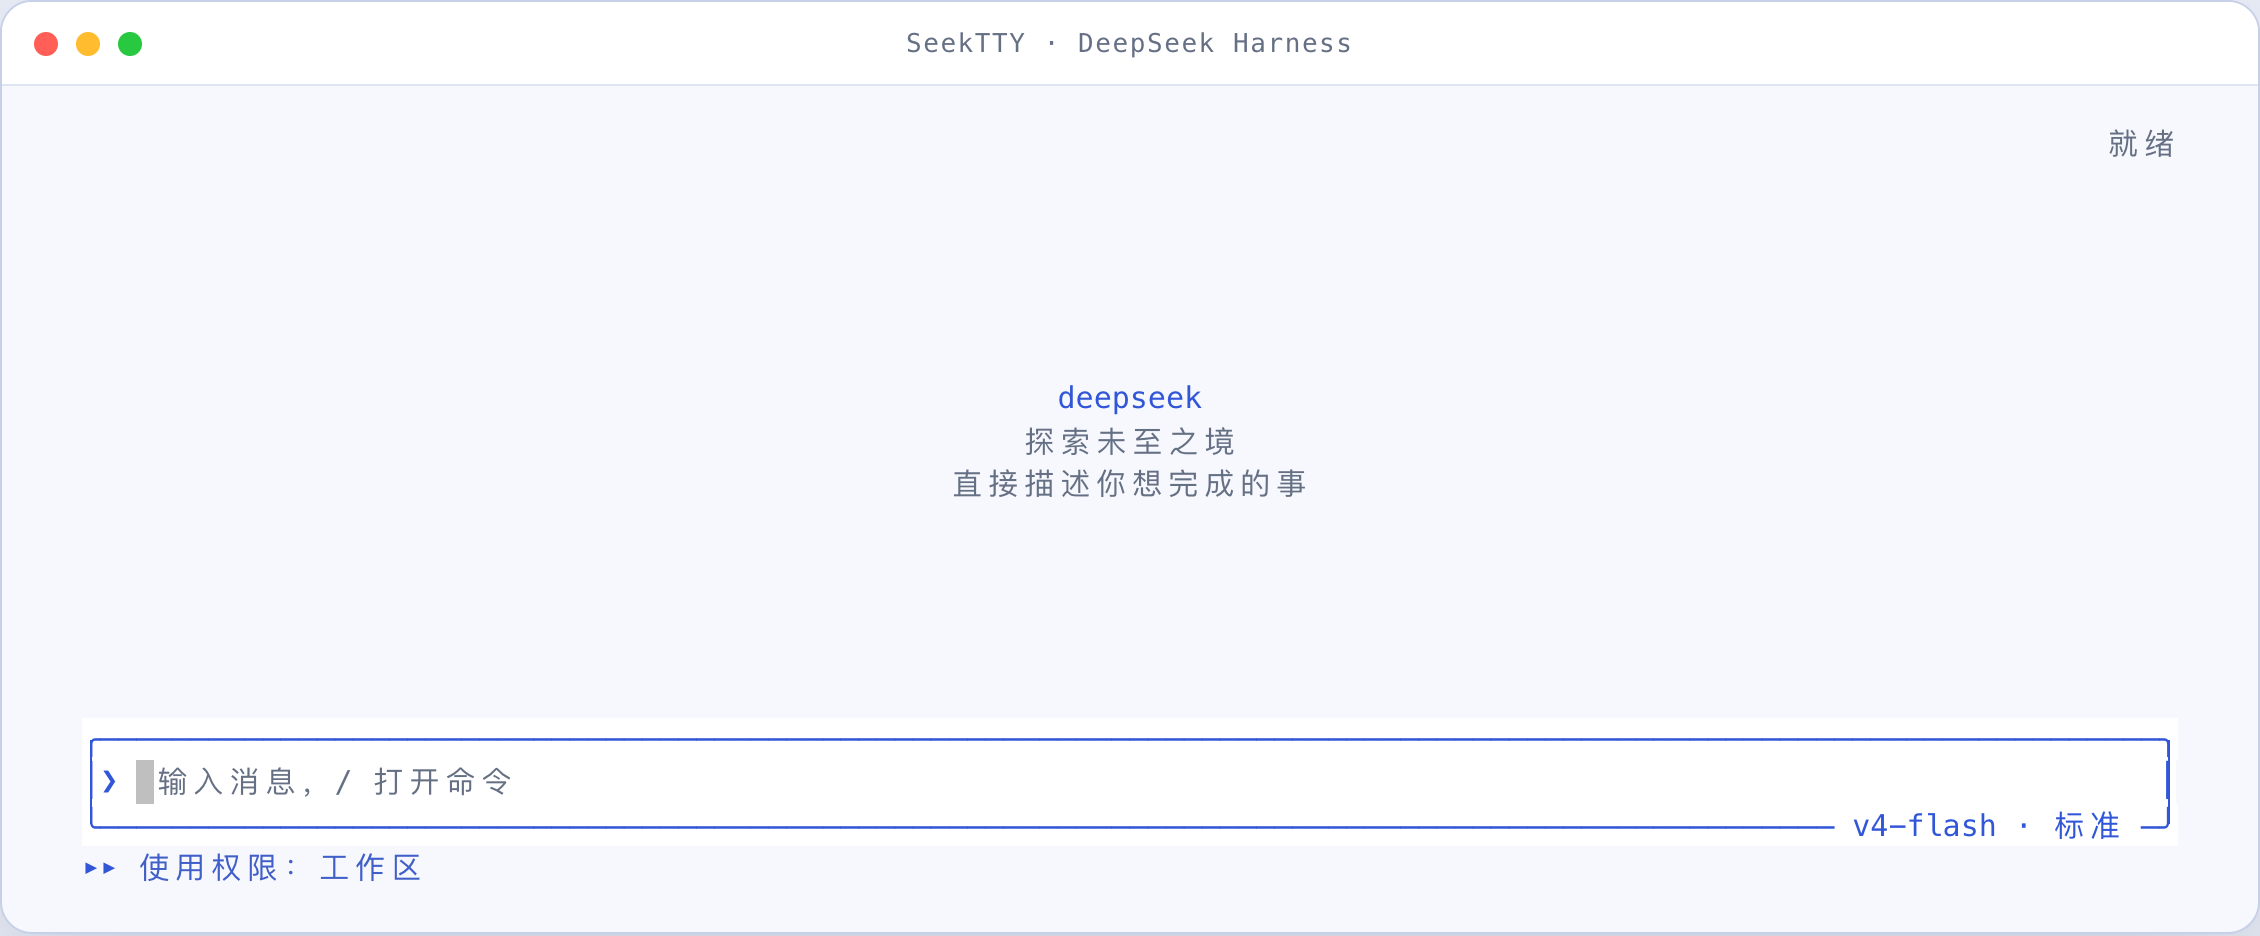
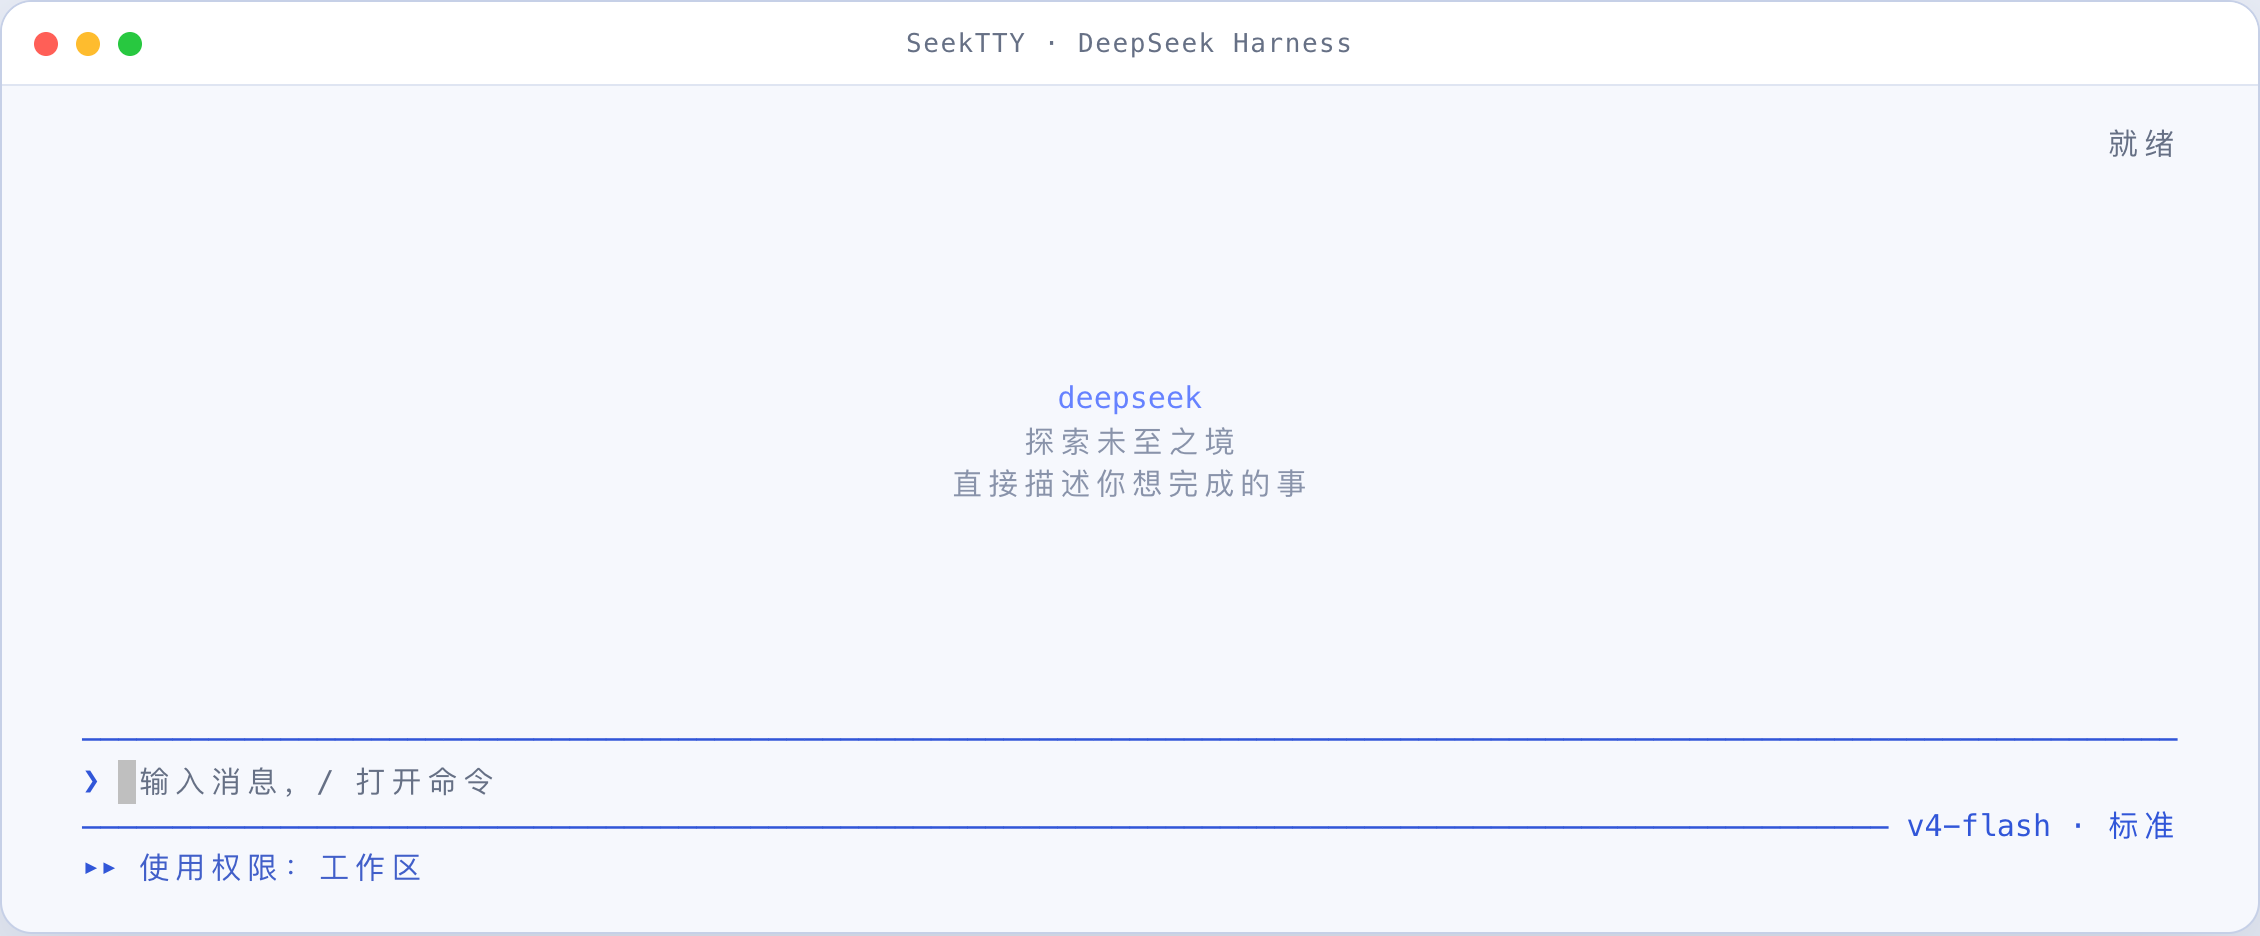
fix(tui): use open composer rules

diff --git a/src/client/chrome.ts b/src/client/chrome.ts
@@ -9,7 +9,7 @@ import {
   type TUI,
 } from '@mariozechner/pi-tui'
 import type { TuiHeaderFacts } from './capabilities.ts'
-import { color, editorTheme, surfaceRow } from './theme.ts'
+import { color, editorTheme } from './theme.ts'
 
 function fit(text: string, width: number): string {
   return truncateToWidth(text, Math.max(1, width), '…')
@@ -66,26 +66,16 @@ function permissionLabel(value: string): string {
   }
 }
 
-function framedRule(
-  start: '╭' | '╰',
-  end: '╮' | '╯',
+function horizontalRule(
   label: string,
   width: number,
   paint: (text: string) => string,
-  align: 'left' | 'right' = 'left',
 ): string {
-  if (width <= 2) return paint('─'.repeat(Math.max(1, width)))
-  const labelWidth = Math.max(0, width - 7)
+  if (width <= 1) return paint('─'.repeat(Math.max(1, width)))
+  const labelWidth = Math.max(0, width - 2)
   const safeLabel = labelWidth === 0 ? '' : truncateToWidth(label, labelWidth, '…')
-  const interiorWidth = width - 2
-  let interior: string
-  if (align === 'right' && safeLabel !== '') {
-    interior = `${'─'.repeat(Math.max(0, interiorWidth - visibleWidth(safeLabel) - 3))} ${safeLabel} ─`
-  } else {
-    const lead = safeLabel === '' ? '─' : `─ ${safeLabel} `
-    interior = `${lead}${'─'.repeat(Math.max(0, interiorWidth - visibleWidth(lead)))}`
-  }
-  return paint(`${start}${truncateToWidth(interior, width - 2)}${end}`)
+  const suffix = safeLabel === '' ? '' : ` ${safeLabel}`
+  return paint(`${'─'.repeat(Math.max(1, width - visibleWidth(suffix)))}${suffix}`)
 }
 
 function compactFacts(label: string, width: number): string {
@@ -204,7 +194,7 @@ export class StatusBar implements Component {
   }
 }
 
-/** Framed Grok-style composer with only live model facts in its lower border. */
+/** Open Grok-style composer with live model facts aligned to its lower rule. */
 export class PromptEditor extends Editor {
   private facts = 'deepseek · 标准'
 
@@ -213,7 +203,7 @@ export class PromptEditor extends Editor {
   }
 
   /**
-   * Embed current Harness Session facts in the composer border.
+   * Embed current Harness Session facts in the composer's lower rule.
    * @param facts - Current authoritative Session facts.
    */
   setFacts(facts: TuiHeaderFacts): void {
@@ -232,8 +222,7 @@ export class PromptEditor extends Editor {
     this.borderColor = this.focused ? color.brand : color.border
     if (width < 8) return super.render(width)
     const { prefix, innerWidth: frameWidth } = gutter(width)
-    const innerWidth = frameWidth - 2
-    const lines = super.render(innerWidth)
+    const lines = super.render(frameWidth)
     const lowerRule = lines.findIndex((line, index) => index > 0 && isHorizontalRule(line))
     const split = lowerRule < 0 ? lines.length - 1 : lowerRule
     const editorRows = lines.slice(1, split)
@@ -243,19 +232,18 @@ export class PromptEditor extends Editor {
       const cursor = this.focused ? `${CURSOR_MARKER}\u001B[7m \u001B[0m` : ''
       editorRows[0] = padded(
         `${color.brand('❯')} ${cursor}${color.muted('输入消息，/ 打开命令')}`,
-        innerWidth,
+        frameWidth,
       )
     } else if (editorRows.length > 0) {
       editorRows[0] = `${color.brand('❯')} ${editorRows[0]?.slice(2) ?? ''}`
     }
 
-    const vertical = this.borderColor('│')
-    const body = [...editorRows, ...autocompleteRows].map(row => `${vertical}${padded(row, innerWidth)}${vertical}`)
-    const compactedFacts = compactFacts(this.facts, Math.max(0, frameWidth - 7))
+    const body = [...editorRows, ...autocompleteRows].map(row => padded(row, frameWidth))
+    const compactedFacts = compactFacts(this.facts, Math.max(0, frameWidth - 2))
     return [
-      framedRule('╭', '╮', '', frameWidth, this.borderColor),
+      horizontalRule('', frameWidth, this.borderColor),
       ...body,
-      framedRule('╰', '╯', compactedFacts, frameWidth, this.borderColor, 'right'),
-    ].map(line => `${prefix}${surfaceRow(line, frameWidth)}`)
+      horizontalRule(compactedFacts, frameWidth, this.borderColor),
+    ].map(line => `${prefix}${line}`)
   }
 }

diff --git a/lib/index.js b/lib/index.js
@@ -24249,18 +24249,12 @@ function permissionLabel(value) {
 		default: return value;
 	}
 }
-function framedRule(start, end, label, width, paint$1, align = "left") {
-	if (width <= 2) return paint$1("─".repeat(Math.max(1, width)));
-	const labelWidth = Math.max(0, width - 7);
+function horizontalRule(label, width, paint$1) {
+	if (width <= 1) return paint$1("─".repeat(Math.max(1, width)));
+	const labelWidth = Math.max(0, width - 2);
 	const safeLabel = labelWidth === 0 ? "" : truncateToWidth(label, labelWidth, "…");
-	const interiorWidth = width - 2;
-	let interior;
-	if (align === "right" && safeLabel !== "") interior = `${"─".repeat(Math.max(0, interiorWidth - visibleWidth(safeLabel) - 3))} ${safeLabel} ─`;
-	else {
-		const lead = safeLabel === "" ? "─" : `─ ${safeLabel} `;
-		interior = `${lead}${"─".repeat(Math.max(0, interiorWidth - visibleWidth(lead)))}`;
-	}
-	return paint$1(`${start}${truncateToWidth(interior, width - 2)}${end}`);
+	const suffix = safeLabel === "" ? "" : ` ${safeLabel}`;
+	return paint$1(`${"─".repeat(Math.max(1, width - visibleWidth(suffix)))}${suffix}`);
 }
 function compactFacts(label, width) {
 	if (width <= 0) return "";
@@ -24369,7 +24363,7 @@ var StatusBar = class {
 		return [`${prefix}${columns(permission, this.detail, innerWidth)}`];
 	}
 };
-/** Framed Grok-style composer with only live model facts in its lower border. */
+/** Open Grok-style composer with live model facts aligned to its lower rule. */
 var PromptEditor = class extends Editor {
 	facts = "deepseek · 标准";
 	constructor(tui) {
@@ -24379,7 +24373,7 @@ var PromptEditor = class extends Editor {
 		});
 	}
 	/**
-	* Embed current Harness Session facts in the composer border.
+	* Embed current Harness Session facts in the composer's lower rule.
 	* @param facts - Current authoritative Session facts.
 	*/
 	setFacts(facts) {
@@ -24393,24 +24387,22 @@ var PromptEditor = class extends Editor {
 		this.borderColor = this.focused ? color.brand : color.border;
 		if (width < 8) return super.render(width);
 		const { prefix, innerWidth: frameWidth } = gutter(width);
-		const innerWidth = frameWidth - 2;
-		const lines = super.render(innerWidth);
+		const lines = super.render(frameWidth);
 		const lowerRule = lines.findIndex((line, index) => index > 0 && isHorizontalRule(line));
 		const split = lowerRule < 0 ? lines.length - 1 : lowerRule;
 		const editorRows = lines.slice(1, split);
 		const autocompleteRows = lines.slice(split + 1);
 		if (this.getText() === "" && !this.isShowingAutocomplete() && editorRows.length > 0) {
 			const cursor = this.focused ? `${CURSOR_MARKER}\u001B[7m \u001B[0m` : "";
-			editorRows[0] = padded(`${color.brand("❯")} ${cursor}${color.muted("输入消息，/ 打开命令")}`, innerWidth);
+			editorRows[0] = padded(`${color.brand("❯")} ${cursor}${color.muted("输入消息，/ 打开命令")}`, frameWidth);
 		} else if (editorRows.length > 0) editorRows[0] = `${color.brand("❯")} ${editorRows[0]?.slice(2) ?? ""}`;
-		const vertical = this.borderColor("│");
-		const body = [...editorRows, ...autocompleteRows].map((row) => `${vertical}${padded(row, innerWidth)}${vertical}`);
-		const compactedFacts = compactFacts(this.facts, Math.max(0, frameWidth - 7));
+		const body = [...editorRows, ...autocompleteRows].map((row) => padded(row, frameWidth));
+		const compactedFacts = compactFacts(this.facts, Math.max(0, frameWidth - 2));
 		return [
-			framedRule("╭", "╮", "", frameWidth, this.borderColor),
+			horizontalRule("", frameWidth, this.borderColor),
 			...body,
-			framedRule("╰", "╯", compactedFacts, frameWidth, this.borderColor, "right")
-		].map((line) => `${prefix}${surfaceRow(line, frameWidth)}`);
+			horizontalRule(compactedFacts, frameWidth, this.borderColor)
+		].map((line) => `${prefix}${line}`);
 	}
 };
 

diff --git a/tests/chrome.test.ts b/tests/chrome.test.ts
@@ -1,0 +1,46 @@
+import { afterEach, describe, expect, it, vi } from 'vitest'
+import { visibleWidth, type TUI } from '@mariozechner/pi-tui'
+import { PromptEditor } from '../src/client/chrome.ts'
+
+function editor(): PromptEditor {
+  return new PromptEditor({
+    terminal: { rows: 24 },
+    requestRender: vi.fn(),
+  } as unknown as TUI)
+}
+
+afterEach(() => { vi.unstubAllEnvs() })
+
+describe('composer chrome', () => {
+  it('uses open horizontal rules without side borders or corner glyphs', () => {
+    vi.stubEnv('NO_COLOR', '1')
+    const rows = editor().render(40)
+
+    expect(rows).toHaveLength(3)
+    expect(rows.join('\n')).not.toMatch(/[│╭╮╰╯]/u)
+    expect(rows[0]?.slice(2)).toBe('─'.repeat(36))
+    expect(rows[1]).toContain('❯')
+    expect(rows[2]).toMatch(/^  ─+ deepseek · 标准$/u)
+    expect(rows.map(visibleWidth)).toEqual([38, 38, 38])
+  })
+
+  it('keeps the effective model, reasoning effort, and mode on the far right', () => {
+    vi.stubEnv('NO_COLOR', '1')
+    const composer = editor()
+    composer.setFacts({
+      hostVersion: '0.1.0',
+      nodeVersion: '24.0.0',
+      platform: 'darwin',
+      architecture: 'arm64',
+      profile: 'tui',
+      workspace: '/workspace',
+      session: 'session',
+      mode: 'standard',
+      model: 'deepseek-official/deepseek-v4-pro · max',
+      permission: 'workspace-write',
+      running: false,
+    })
+
+    expect(composer.render(60).at(-1)).toMatch(/v4-pro · 最大推理 · 标准$/u)
+  })
+})
